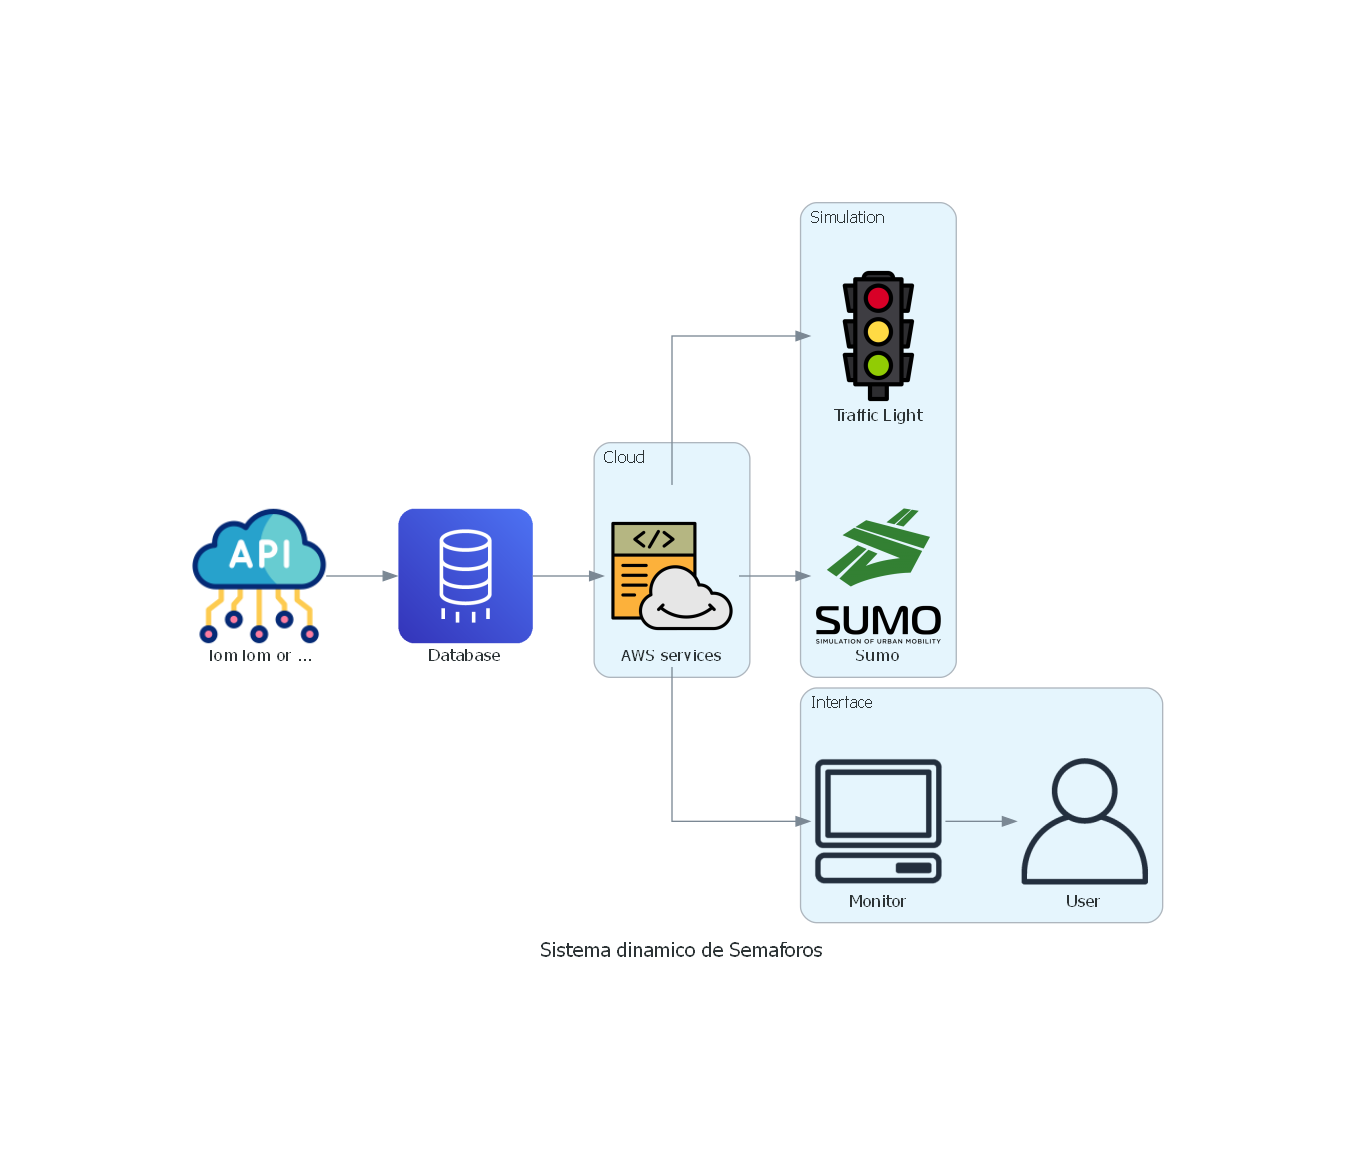
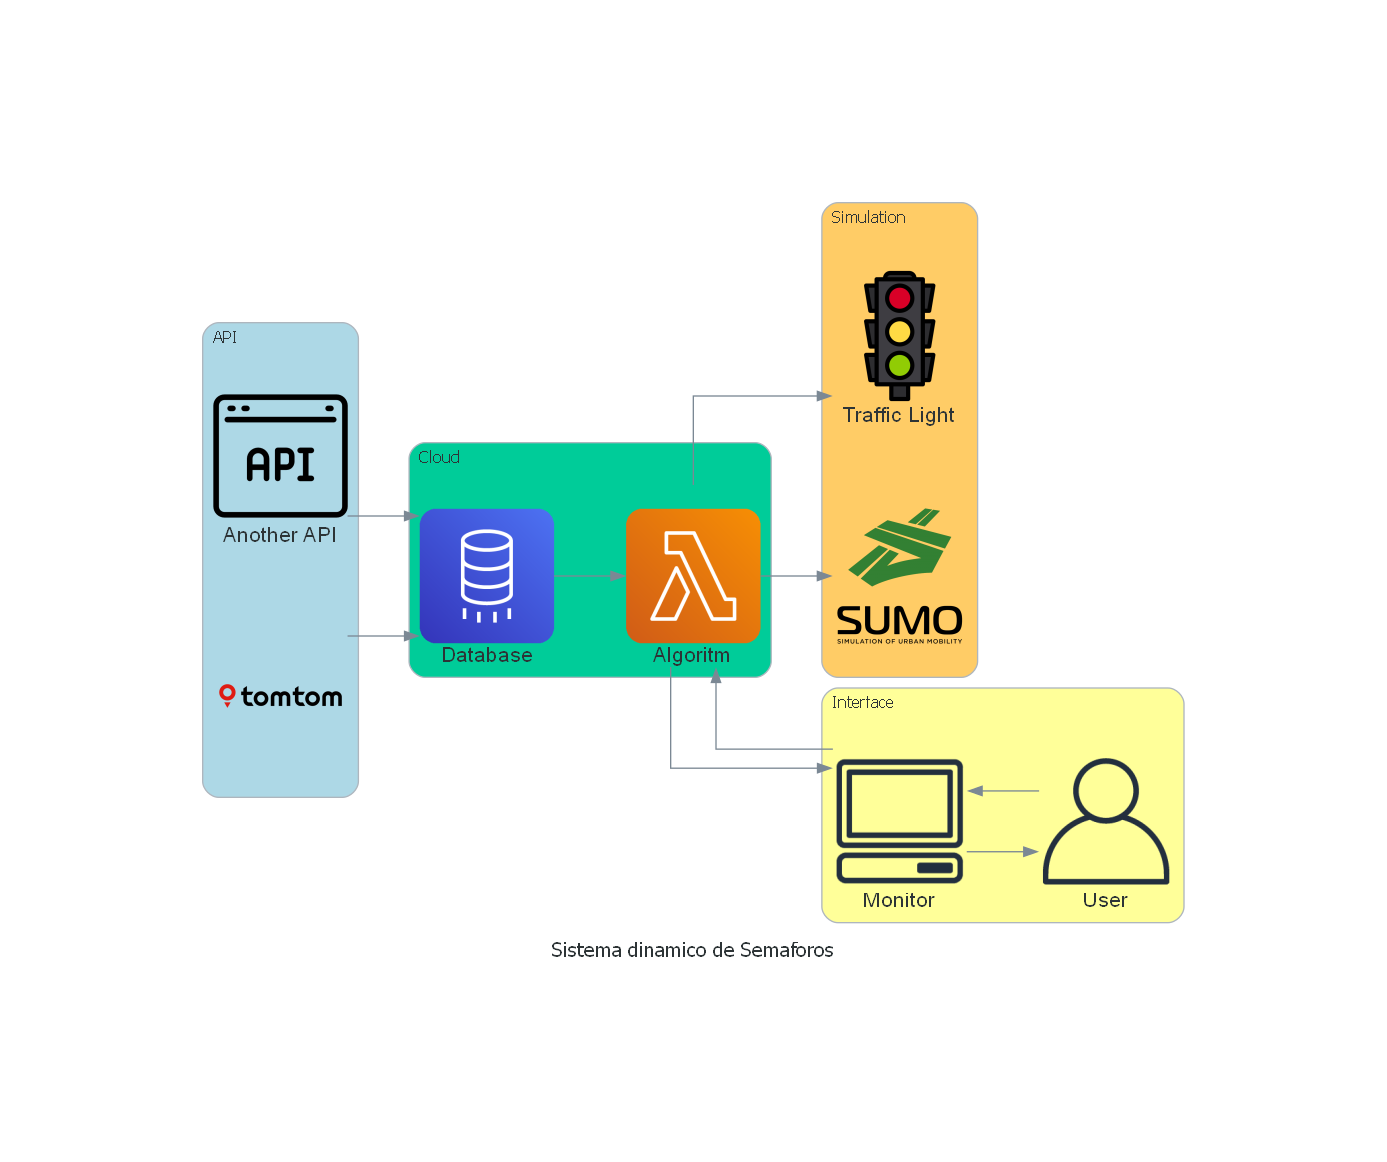
Mudança na vizualização do diagrama

Changed region(s): [[0.1231, 0.1549, 0.8615, 0.8365], [0.4, 0.8055, 0.4923, 0.8365]]

diff --git a/Diagrams/Diagrams.py b/Diagrams/Diagrams.py
@@ -2,25 +2,28 @@ from diagrams import Cluster, Diagram
 from diagrams.custom import Custom
 from diagrams.aws.database import DatabaseMigrationService, DMS
 from diagrams.aws.general import Client, User
+from diagrams.aws.compute import Lambda
 
-with Diagram("Sistema dinamico de Semaforos", show=False):
-    api = Custom("TomTom or ...", r".\resources\API_2.png")
-    db = DMS("Database")
+with Diagram("Sistema dinamico de Semaforos", show=False, node_attr={"fontsize": "16", "fontname": "Arial"}):
+    with Cluster("API", graph_attr={"bgcolor": "lightblue"}):
+        tomtom = Custom("", r".\resources\TomTomSymbol.png")
+        another_api = Custom("Another API", r".\resources\API.png")
+        api = [tomtom, another_api]
 
-    with Cluster("Cloud"):
-        aws = Custom("AWS services", r".\resources\AWS.png")
+    with Cluster("Cloud", graph_attr={"bgcolor": "#00CC99"}):
+        lambda_function = Lambda("Algoritm")
+        db = DMS("Database")
 
-    with Cluster("Simulation"):
-       sumo = Custom("Sumo", r".\resources\SUMO.png")
-       traffic = Custom("Traffic Light", r".\resources\traffic-light.png")
-       simul = [sumo, traffic]
+    with Cluster("Simulation", graph_attr={"bgcolor": "#FFCC66"}):
+        sumo = Custom("", r".\resources\SUMO.png")
+        traffic = Custom("Traffic Light", r".\resources\traffic-light.png")
+        simul = [sumo, traffic]
 
-    with Cluster("Interface"):
+    with Cluster("Interface", graph_attr={"bgcolor": "#FFFF99"}):
         monitor = Client("Monitor")
         user = User("User")
-        monitor >> user
 
-    api >> db
-    db >> aws
-    aws >> simul
-    aws >> monitor
+    api >> db >> lambda_function
+    lambda_function >> simul
+    lambda_function >> monitor >> user
+    user >> monitor >> lambda_function
